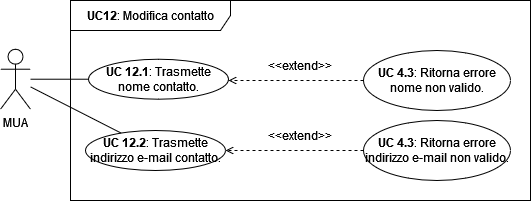
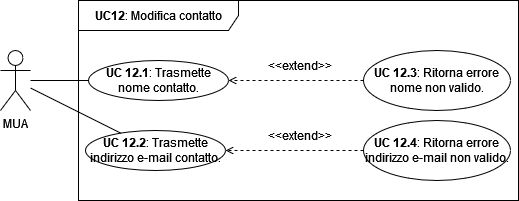
uc12 ok

diff --git a/src/analisi_dei_requisiti/sections/usecase/UC12.tex b/src/analisi_dei_requisiti/sections/usecase/UC12.tex
@@ -1,10 +1,10 @@
 %LTeX: language=it
-\subsection{UC 12 - Modifica di un contatto} \label{sec:UC12}
+\subsection{UC 12 - Modifica contatto} \label{sec:UC12}
     \begin{itemize}
         \item \textbf{Attore principale}: MUA;
         \item \textbf{Descrizione}: il MUA deve poter modificare un contatto nel sistema;
-        \item \textbf{Precondizioni}: l’account che il MUA gestisce è registrato nel sistema, e ha un connessione aperta con il sistema ed è autenticato;
-        \item \textbf{Postcondizioni}: il MUA modifica il contatto che viene salvato nel sistema;
+        \item \textbf{Precondizioni}: l’account che il MUA gestisce è registrato nel sistema, ha un connessione aperta con il sistema ed è autenticato;
+        \item \textbf{Postcondizioni}: il contatto è stata modificato con successo, ed è stato salvato nel sistema
         \item \textbf{Scenario principale}:
             \begin{enumerate}
                 \item il MUA trasmette il nuovo nome del contatto (\hyperref[sec:UC12.1]{UC 12.1});
@@ -13,16 +13,26 @@
             \end{enumerate}
         \item \textbf{Inclusioni}: nessuna;
         \item \textbf{Generalizzazioni}: nessuna;
-        \item \textbf{Estensioni}: nessuna.
+        \item \textbf{Estensioni}: 
+        \begin{enumerate}[label=\alph*.]
+            \item il sistema non riesce a modificare il contatto perchè il nome non è valido:
+            \begin{enumerate}[label=\arabic*.]
+                \item il sistema ritorna un errore al MUA di nome non valido (\hyperref[sec:UC12.3]{UC 12.3}).
+            \end{enumerate}
+            \item il sistema non riesce a modificare il contatto perchè l'indirizzo e-mail non è valido:
+            \begin{enumerate}[label=\arabic*.]
+                \item il sistema ritorna un errore al MUA di indirizzo e-mail non valido(\hyperref[sec:UC12.4]{UC 12.4}).
+            \end{enumerate}
+        \end{enumerate}
     \end{itemize}
 
 \begin{figure}[h]
-    %\includegraphics[width=0.85\textwidth]{sections/uc_imgs/UC012.X.png}
+    \includegraphics[width=0.85\textwidth]{sections/uc_imgs/UC12.png}
     \centering
-    \caption{Diagramma sotto-casi UC 12.}
+    \caption{Diagramma sotto-casi UC 12}
 \end{figure}
 
-\subsubsection{UC 12.1 - Trasmette il nome del contatto} \label{sec:UC12.1}
+\subsubsection{UC 12.1 - Trasmette nome contatto} \label{sec:UC12.1}
     \begin{itemize}
         \item \textbf{Attore principale}: MUA;
         \item \textbf{Descrizione}: il MUA trasmette il nuovo nome per modificare il contatto al sistema;
@@ -74,14 +84,12 @@
     \end{itemize}
 
 
-
-
 \subsubsection{UC 12.3 - Ritorna l'errore nome non valido} \label{sec:UC12.3}
     \begin{itemize}
         \item \textbf{Attore principale}: MUA;
-        \item \textbf{Descrizione}: il sistema non riesce a salvare il contatto perché il nome del contatto non rispetta i requisiti;
+        \item \textbf{Descrizione}: il sistema non riesce a modificare il contatto perché il nome del contatto non rispetta i requisiti;
         \item \textbf{Precondizioni}: il MUA ha inviato il nome del contatto;
-        \item \textbf{Postcondizioni}: il sistema non salva il contatto, il MUA è stato notificato dell'errore;
+        \item \textbf{Postcondizioni}: il sistema non modifica il contatto, il MUA è stato notificato dell'errore;
         \item \textbf{Scenario principale}:
             \begin{enumerate}
                 \item il sistema controlla la sintassi del nome del contatto e trova un errore;
@@ -92,12 +100,12 @@
         \item \textbf{Estensioni}: nessuna.
     \end{itemize}
 
-\subsubsection{UC 12. - Ritorna l'errore indirizzo e-mail non valido} \label{sec:UC12.4}
+\subsubsection{UC 12.4 - Ritorna l'errore indirizzo e-mail non valido} \label{sec:UC12.4}
     \begin{itemize}
         \item \textbf{Attore principale}: MUA;
-        \item \textbf{Descrizione}: il sistema non riesce a salvare il contatto perché l'indirizzo e-mail del contatto non rispetta i requisiti;
+        \item \textbf{Descrizione}: il sistema non riesce a modificare il contatto perché l'indirizzo e-mail del contatto non rispetta i requisiti;
         \item \textbf{Precondizioni}: il MUA ha inviato l'indirizzo e-mail del contatto;
-        \item \textbf{Postcondizioni}: il sistema non salva il contatto, il MUA è stato notificato dell'errore;
+        \item \textbf{Postcondizioni}: il sistema non modifica il contatto, il MUA è stato notificato dell'errore;
         \item \textbf{Scenario principale}:
             \begin{enumerate}
                 \item il sistema controlla la sintassi dell'indirizzo e-mail del contatto e trova un errore;

diff --git a/src/analisi_dei_requisiti/sections/usecase/UC20.tex b/src/analisi_dei_requisiti/sections/usecase/UC20.tex
@@ -1,4 +1,4 @@
-\subsection{UC 12 - Eliminare un contatto} \label{sec:UC12}
+\subsection{UC 20 - Eliminare un contatto} \label{sec:UC20}
     \begin{itemize}
         \item \textbf{Attore principale}: MUA;
         \item \textbf{Descrizione}: il MUA deve poter eliminare un contatto nel sistema;;
@@ -6,7 +6,7 @@
         \item \textbf{Postcondizioni}: il sistema elimina il contatto con l'identificativo fornito dal MUA;
         \item \textbf{Scenario principale}:
             \begin{enumerate}
-                \item il MUA invia i dettagli del contatto da eliminare al sistema (\hyperref[sec:UC12.1]{UC 12.1});
+                \item il MUA invia i dettagli del contatto da eliminare al sistema (\hyperref[sec:UC20.1]{UC 20.1});
                 \item il sistema elimina il contatto;
             \end{enumerate}
         \item \textbf{Inclusioni}: nessuna;
@@ -15,12 +15,12 @@
     \end{itemize}
 
 \begin{figure}[h]
-    \includegraphics[width=0.85\textwidth]{sections/uc_imgs/UC12.png}
+    %\includegraphics[width=0.85\textwidth]{sections/uc_imgs/UC20.png}
     \centering
-    \caption{Diagramma sotto-casi UC 12}
+    \caption{Diagramma sotto-casi UC 20}
 \end{figure}
 
-\subsubsection{UC 12.1 - Trasmette i dettagli del contatto} \label{sec:UC12.1}
+\subsubsection{UC 20.1 - Trasmette i dettagli del contatto} \label{sec:UC20.1}
     \begin{itemize}
         \item \textbf{Attore principale}: MUA;
         \item \textbf{Descrizione}: il MUA invia le informazioni del contatto da eliminare al sistema;
@@ -42,7 +42,7 @@
     \end{itemize}
 
 
-\subsubsection{UC 12.2 - Ricezione errore identificativo contatto non valido} \label{sec:UC11.2}
+\subsubsection{UC 20.2 - Ricezione errore identificativo contatto non valido} \label{sec:UC11.2}
     \begin{itemize}
         \item \textbf{Attore principale}: MUA;
         \item \textbf{Descrizione}: il sistema non riesce a eliminare il contatto perché l'identificativo contatto non è stato trovato;

diff --git a/src/analisi_dei_requisiti/sections/usecase/UC11.tex b/src/analisi_dei_requisiti/sections/usecase/UC11.tex
@@ -1,5 +1,5 @@
     %LTeX: language=it
-\subsection{UC 11 - Modifica di una cartella} \label{sec:UC11}
+\subsection{UC 11 - Modifica cartella} \label{sec:UC11}
 \begin{itemize}
     \item \textbf{Attore principale}: MUA;
     \item \textbf{Descrizione}: il MUA deve poter modificare una cartella nel sistema;
